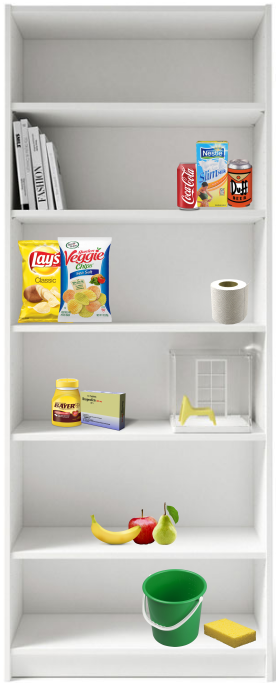
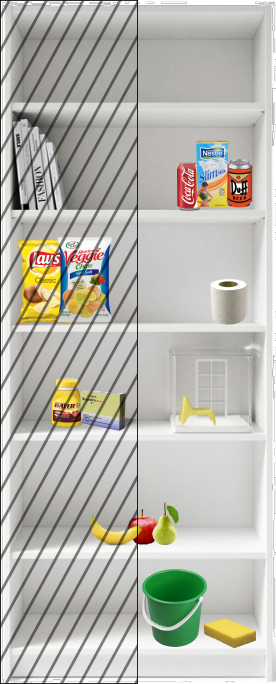
Make **half** of the shelf covered by door

diff --git a/tests/StoringGroceries.tex b/tests/StoringGroceries.tex
@@ -16,6 +16,7 @@ This test focuses on the detection and recognition of objects and their features
 		\item \textbf{Cupboard:} The cupboard has 5 shelves between 0.30m and 1.80m from the ground and contains several objects (See \ref{rule:scenario_objects}).
 		\begin{itemize}
 		 	\item \textbf{Door:} The cupboard has a single door, which is closed initially.
+		 	This door covers half of the objects, e.g. the left/right half of the closet, as indicated by the hatched area in the image.
 		\end{itemize} 
 		\item \textbf{Table:} A table near to the Cupboard has 10 objects (See \ref{rule:scenario_objects}). If not all fit the on the table, they will be added during the test. The maximum distance between the Table and the Cupboard is 2m.
 		\item \textbf{Objects:} Objects on the Cupboard and on the Table can be known, alike, or unknown. Also, there will be more than one object in each shelf. 
